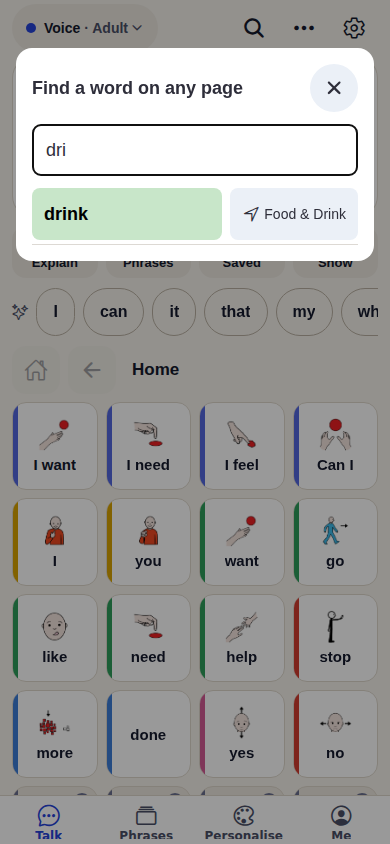
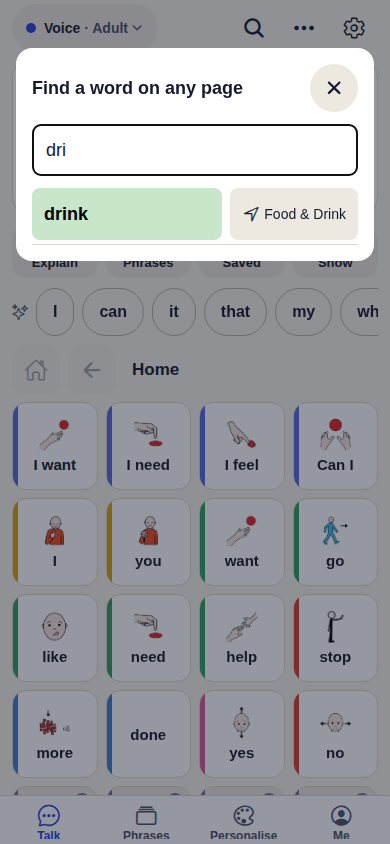
Secondary screens adopt the Voice 2 palette on the new board
getPalette(theme, boardLayout) fills the legacy palette keys from the
design tokens when the new board is in use, so Settings, Find, Insights,
Login, Camera and the other secondary screens match it. The Classic board
keeps its colours. Filled-button contrast is tested for every theme.
Removes the unused first-run OnboardingScreen (replaced by the welcome
sheet, which never blocks the board).

Claude-Session: https://claude.ai/code/session_01DHKTmgjGBbdjHpazCRxgZn

diff --git a/src/theme.js b/src/theme.js
@@ -4,6 +4,8 @@
 // WCAG AA (4.5:1) against buttonText — enforced by theme.test.js.
 // Every screen MUST import from here — no inline palette objects.
 
+import { colorSchemes } from './design/tokens';
+
 // ── Branding constants ──
 export const brand = {
   name: 'Voice',
@@ -125,9 +127,49 @@ export const palettes = {
 };
 
 /**
- * Get the palette for a given theme name.
- * Falls back to 'light' if the theme is unrecognized.
+ * The legacy palette keys filled from the Voice 2 design tokens, so every
+ * secondary screen (Settings, Find, Insights, Login…) takes on the new look
+ * when the new board is in use, without rewriting each screen. Filled
+ * colours stay AA against buttonText (tested in designTokens.test.js).
  */
-export function getPalette(theme) {
+function fromScheme(c) {
+  return {
+    background: c.paper,
+    surface: c.sunk,
+    text: c.ink,
+    textSecondary: c.inkSoft,
+    border: c.line,
+    tabBarBg: c.card,
+    tabBarActive: c.signal,
+    tabBarInactive: c.inkSoft,
+    cardBg: c.card,
+    primary: c.signal,
+    primaryMuted: c.signalSoft,
+    danger: c.danger,
+    info: c.signal,
+    success: c.success,
+    warning: c.danger,
+    inputBg: c.card,
+    inputBorder: c.lineStrong,
+    chipBg: c.sunk,
+    overlay: c.scrim,
+    accent: c.signal,
+    buttonText: c.onSignal,
+    focusRing: c.focus,
+  };
+}
+export const studioPalettes = {
+  light: fromScheme(colorSchemes.light),
+  dark: fromScheme(colorSchemes.dark),
+  highContrast: fromScheme(colorSchemes.highContrast),
+};
+
+/**
+ * Get the palette for a given theme name. With boardLayout 'studio' (the
+ * Voice 2 board) the palette comes from the new design tokens; the Classic
+ * board keeps its familiar colours. Falls back to 'light'.
+ */
+export function getPalette(theme, boardLayout) {
+  if (boardLayout === 'studio') return studioPalettes[theme] || studioPalettes.light;
   return palettes[theme] || palettes.light;
 }

diff --git a/src/__tests__/designTokens.test.js b/src/__tests__/designTokens.test.js
@@ -1,6 +1,7 @@
 // Voice 2 colour tokens: every text/background pair used for content must
 // reach WCAG AA (4.5:1), in every theme and on every category fill.
 import { colorSchemes, categoryColors } from '../design/tokens';
+import { studioPalettes, getPalette, palettes } from '../theme';
 
 function lum(hex) {
   const n = parseInt(hex.slice(1), 16);
@@ -35,4 +36,23 @@ describe.each(Object.keys(colorSchemes))('%s scheme', (name) => {
   test('focus ring is distinguishable from the background (3:1, non-text)', () => {
     expect(contrast(c.focus, c.paper)).toBeGreaterThanOrEqual(3);
   });
+});
+
+// Secondary screens use legacy palette keys filled from these tokens when
+// the new board is in use; their filled buttons must stay readable.
+
+describe.each(Object.keys(studioPalettes))('studio palette %s', (name) => {
+  const p = studioPalettes[name];
+  test.each(['primary', 'danger', 'info', 'success', 'warning', 'accent'])('buttonText on %s is AA', (key) => {
+    expect(contrast(p.buttonText, p[key])).toBeGreaterThanOrEqual(4.5);
+  });
+  test('text on background, card and surface is AA', () => {
+    ['background', 'cardBg', 'surface', 'inputBg'].forEach((bg) => expect(contrast(p.text, p[bg])).toBeGreaterThanOrEqual(4.5));
+  });
+});
+
+test('Classic board keeps its own palette', () => {
+  expect(getPalette('dark', 'classic')).toBe(palettes.dark);
+  expect(getPalette('dark')).toBe(palettes.dark);
+  expect(getPalette('dark', 'studio')).toBe(studioPalettes.dark);
 });

diff --git a/App.js b/App.js
@@ -148,7 +148,7 @@ function MainApp() {
 function ClassicApp() {
   const insets = useSafeAreaInsets();
   const { settings } = useSettings();
-  const palette = getPalette(settings.theme);
+  const palette = getPalette(settings.theme, settings.boardLayout);
 
   return (
     <>
@@ -255,7 +255,7 @@ function AppNavigator() {
 
 function RootNavigator() {
   const { settings } = useSettings();
-  const palette = getPalette(settings.theme);
+  const palette = getPalette(settings.theme, settings.boardLayout);
 
   return (
     <RootStack.Navigator

diff --git a/src/screens/EasySentenceBuilderScreen.js b/src/screens/EasySentenceBuilderScreen.js
@@ -34,7 +34,7 @@ export default function EasySentenceBuilderScreen() {
   const [categoryImages, setCategoryImages] = useState({});
 
   const categories = Object.keys(OFFLINE_CATEGORIES);
-  const palette = getPalette(settings.theme);
+  const palette = getPalette(settings.theme, settings.boardLayout);
   const [offlineMode, setOfflineMode] = useState(false);
   // Learning follows the same explicit opt-in as the board.
   const aiEnabled = settings.personalLearning === true && settings.aiPersonalisationEnabled !== false;

diff --git a/src/components/MoreActionsMenu.js b/src/components/MoreActionsMenu.js
@@ -14,7 +14,7 @@ import VoicePresetPicker from './VoicePresetPicker';
 
 export default function MoreActionsMenu({ visible, onClose, items, voicePreset, onSelectVoicePreset }) {
   const { settings } = useSettings();
-  const palette = getPalette(settings.theme);
+  const palette = getPalette(settings.theme, settings.boardLayout);
   // iOS cannot present another modal (e.g. Show on screen) while this one is
   // still dismissing, so run the chosen action once dismissal has finished.
   const pending = useRef(null);

diff --git a/src/screens/ProfileScreen.js b/src/screens/ProfileScreen.js
@@ -20,7 +20,7 @@ export default function ProfileScreen() {
   const { settings, loading: settingsLoading } = useSettings();
   const { user } = useAuth();
   const navigation = useNavigation();
-  const palette = getPalette(settings.theme);
+  const palette = getPalette(settings.theme, settings.boardLayout);
   // Anonymous Firebase sessions exist only so cloud AI calls carry a token —
   // in the UI they are guests.
   const account = user && !user.isAnonymous ? user : null;

diff --git a/src/components/QuickRepairOverlay.js b/src/components/QuickRepairOverlay.js
@@ -80,7 +80,7 @@ export default function QuickRepairOverlay() {
   }, []);
   const [scanFocusId, setScanFocusId] = useState(null);
   const { settings } = useSettings();
-  const palette = getPalette(settings.theme);
+  const palette = getPalette(settings.theme, settings.boardLayout);
   const insets = useSafeAreaInsets();
   // Tab bar height = 60 + insets.bottom. FAB sits 20px above that.
   const fabBottom = 60 + insets.bottom + 20;

diff --git a/src/screens/InsightsScreen.js b/src/screens/InsightsScreen.js
@@ -25,7 +25,7 @@ const VOCAB_REQUESTS_KEY = '@aac_vocab_requests';
 
 export default function InsightsScreen() {
   const { settings } = useSettings();
-  const palette = getPalette(settings.theme);
+  const palette = getPalette(settings.theme, settings.boardLayout);
   const [insights, setInsights] = useState(null);
   const [topWords, setTopWords] = useState([]);
   const [topSentences, setTopSentences] = useState([]);

diff --git a/src/screens/EmotionScreen.js b/src/screens/EmotionScreen.js
@@ -114,7 +114,7 @@ function buildSentence(emotion, intensity, cause, need) {
 
 export default function EmotionScreen() {
   const { settings } = useSettings();
-  const palette = getPalette(settings.theme);
+  const palette = getPalette(settings.theme, settings.boardLayout);
   const [emotion, setEmotion] = useState(null);
   const [intensity, setIntensity] = useState(null);
   const [cause, setCause] = useState(null);

diff --git a/src/screens/SettingsScreen.js b/src/screens/SettingsScreen.js
@@ -31,7 +31,7 @@ import CloudUnavailableNotice from '../components/CloudUnavailableNotice';
 
 export default function SettingsScreen() {
   const { settings, loading: settingsLoading, updateSettings } = useSettings();
-  const palette = getPalette(settings.theme);
+  const palette = getPalette(settings.theme, settings.boardLayout);
   const navigation = useNavigation();
 
   const [voices, setVoices] = useState([]);

diff --git a/src/screens/FeedbackScreen.js b/src/screens/FeedbackScreen.js
@@ -45,7 +45,7 @@ export default function FeedbackScreen() {
   const [email, setEmail] = useState('');
   const [role, setRole] = useState('user');
   const [submitting, setSubmitting] = useState(false);
-  const palette = getPalette(settings.theme);
+  const palette = getPalette(settings.theme, settings.boardLayout);
 
   // Deliver feedback queued while offline whenever we come back online.
   useEffect(() => {

diff --git a/src/screens/VocabManagerScreen.js b/src/screens/VocabManagerScreen.js
@@ -30,7 +30,7 @@ const CATEGORIES = [
 export default function VocabManagerScreen() {
   const { settings } = useSettings();
   const { user, role } = useAuth();
-  const palette = getPalette(settings.theme);
+  const palette = getPalette(settings.theme, settings.boardLayout);
   const [requests, setRequests] = useState({});
   const [vocab, setVocab] = useState([]);
   const [newWord, setNewWord] = useState('');
